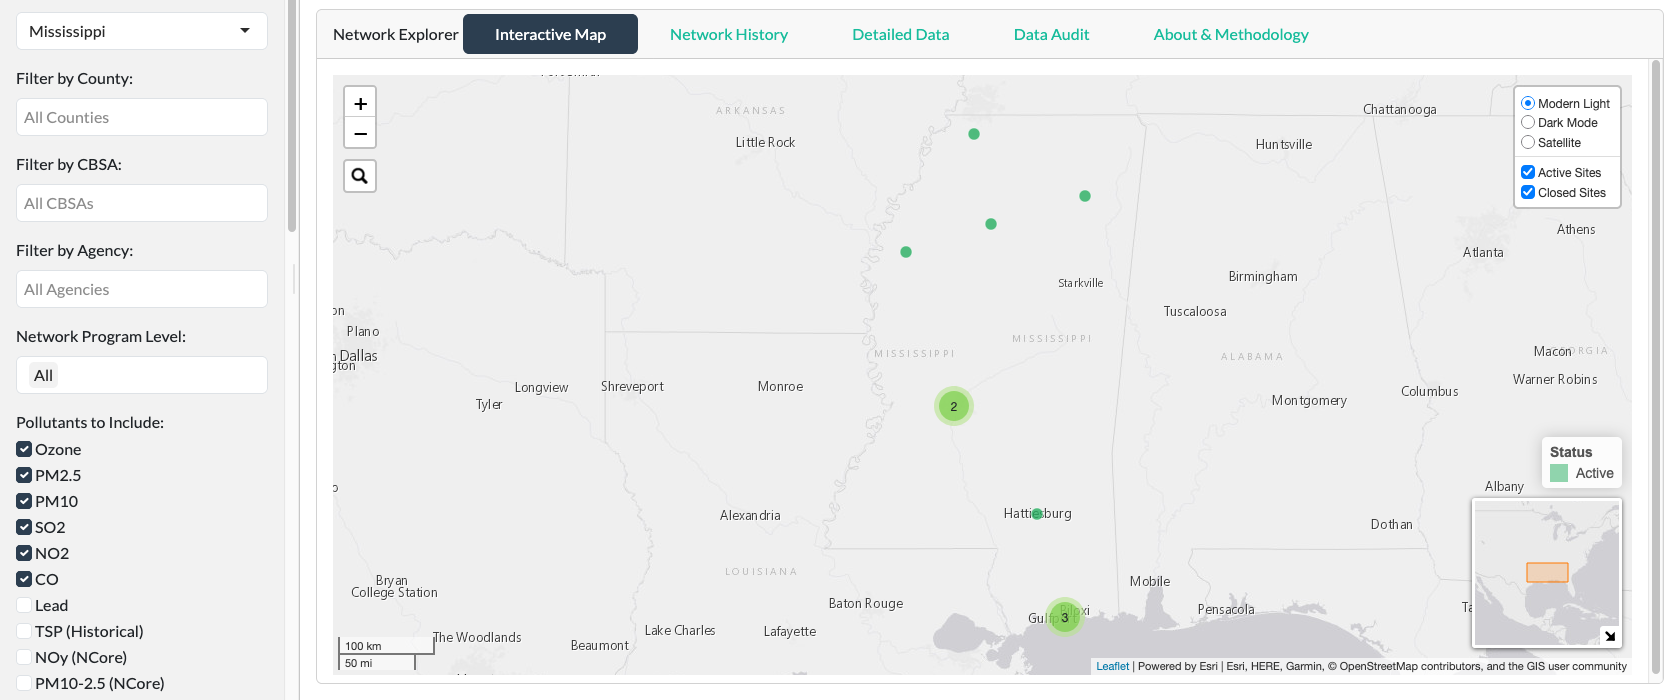
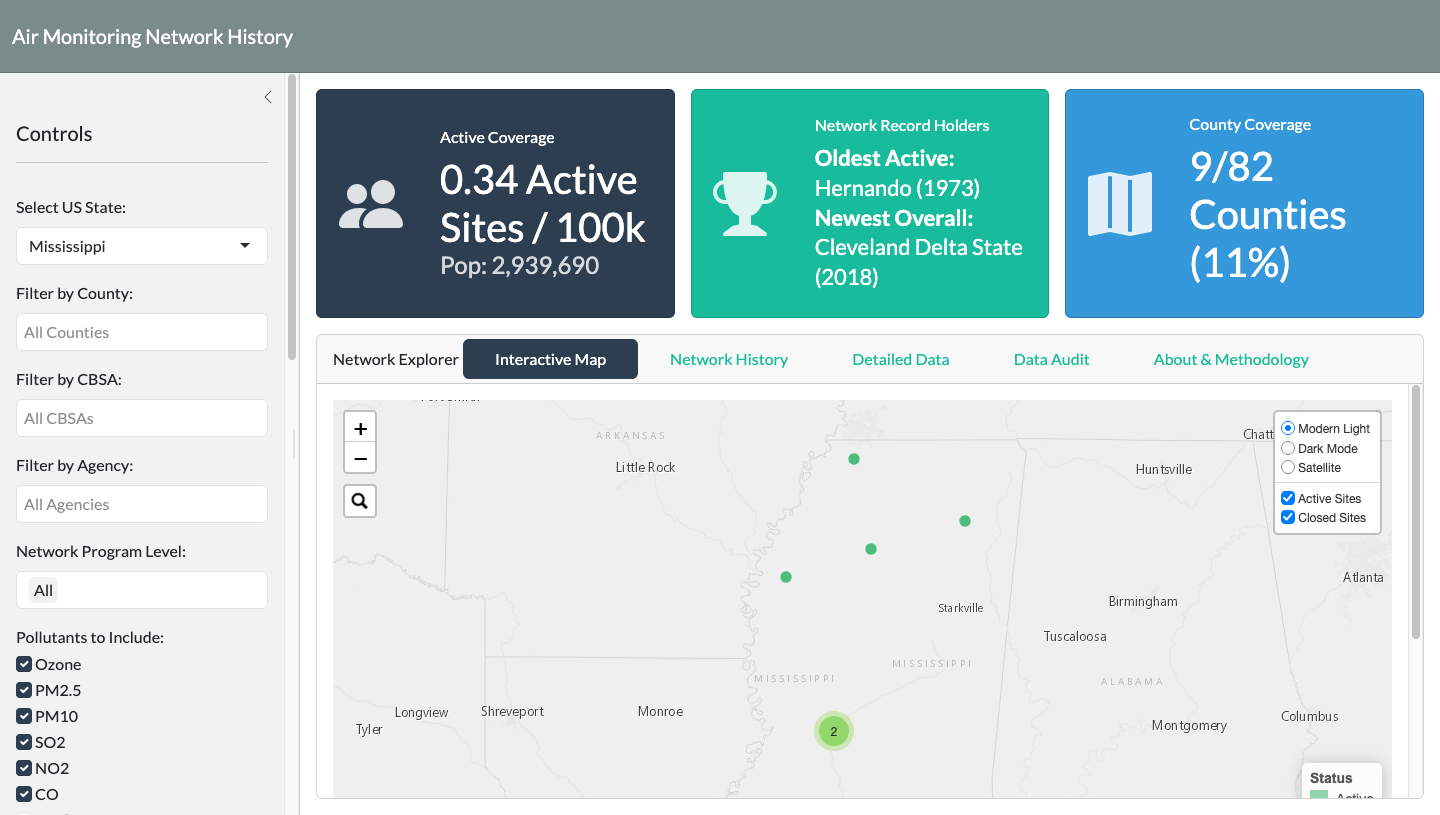
README: retake the screenshot after the fix

diff --git a/README.md b/README.md
@@ -4,7 +4,7 @@ A professional, state-agnostic R-Shiny dashboard designed for technical auditing
 
 ### 🚀 [Live Demo (shinyapps.io)](https://rcuevas.shinyapps.io/Air_Monitoring_History/)
 
-![Interactive map of Mississippi's air monitoring sites with the network filters](images/screenshot.png)
+![Air Monitoring Network History: coverage, record-holder and county boxes above the interactive map of Mississippi's monitoring sites](images/screenshot.png)
 
 ---
 
